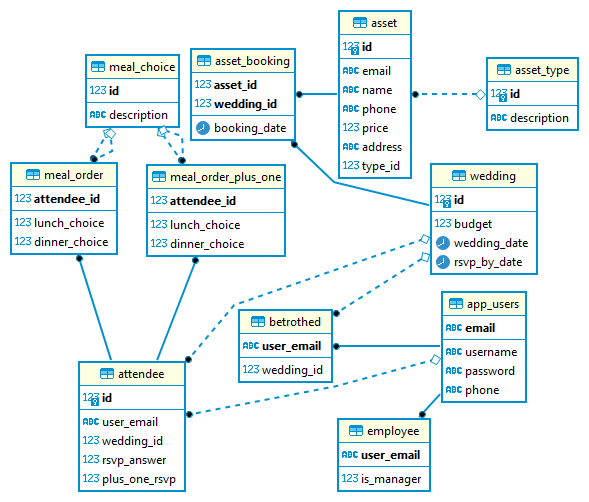
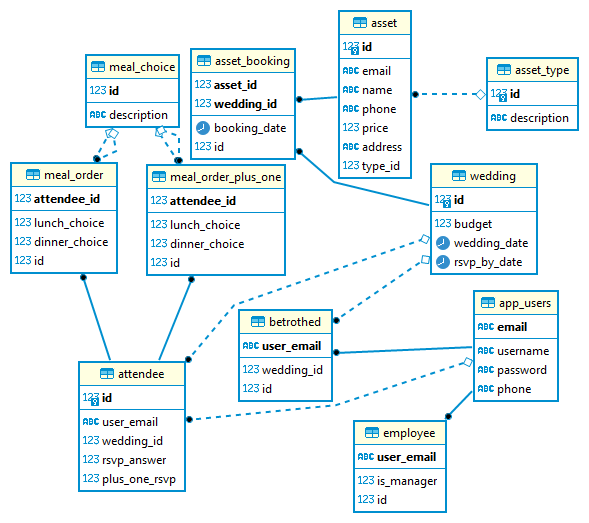
started testing DAOs, changed all add functions of DAOs to return the object they just peristed if they succeed in persisting the object

Changed region(s): [[0.0, 0.0, 0.9474, 0.9861], [0.7029, 0.0896, 0.9779, 0.2689], [0.6418, 0.5378, 0.6723, 0.5677]]

diff --git a/WeddingMart/src/main/java/DAOTestDriver.java b/WeddingMart/src/main/java/DAOTestDriver.java
@@ -1,0 +1,70 @@
+import com.revature.weddingmart.daos.AssetBookingDAO;
+import com.revature.weddingmart.daos.AssetDAO;
+import com.revature.weddingmart.daos.AssetTypeDAO;
+import com.revature.weddingmart.daos.MealChoiceDAO;
+import com.revature.weddingmart.daos.MealOrderDAO;
+import com.revature.weddingmart.daos.MealOrderPlusOneDAO;
+import com.revature.weddingmart.daos.WeddingDAO;
+import com.revature.weddingmart.daos.users.AttendeeDAO;
+import com.revature.weddingmart.daos.users.BetrothedDAO;
+import com.revature.weddingmart.daos.users.EmployeeDAO;
+import com.revature.weddingmart.daos.users.UserDAO;
+import com.revature.weddingmart.models.Asset;
+import com.revature.weddingmart.models.AssetBooking;
+import com.revature.weddingmart.models.AssetType;
+import com.revature.weddingmart.models.MealChoice;
+import com.revature.weddingmart.models.MealOrder;
+import com.revature.weddingmart.models.MealOrderPlusOne;
+import com.revature.weddingmart.models.Wedding;
+import com.revature.weddingmart.models.users.Attendee;
+import com.revature.weddingmart.models.users.Betrothed;
+import com.revature.weddingmart.models.users.Employee;
+import com.revature.weddingmart.models.users.User;
+
+public class DAOTestDriver {
+
+	public static void main(String[] args) {
+		AssetTypeDAO assetTypeDAO = new AssetTypeDAO();
+		AssetType assetType = new AssetType();
+		assetType = assetTypeDAO.getById(1);
+		
+		AssetDAO assetDAO = new AssetDAO();
+		Asset asset = new Asset();
+		asset.setAddress("address");
+		asset.setEmail("email");
+		asset.setName("name");
+		asset.setPhone("phone");
+		asset.setPrice(9001.99);
+		asset.setType(assetType);
+		asset = assetDAO.addAsset(asset);
+		
+		UserDAO userDAO = new UserDAO();
+		User user = new User();
+		
+		EmployeeDAO employeeDAO = new EmployeeDAO();
+		Employee employee = new Employee();
+		
+		WeddingDAO weddingDAO = new WeddingDAO();
+		Wedding wedding = new Wedding();
+		
+		BetrothedDAO betrothedDAO = new BetrothedDAO();
+		Betrothed betrothed = new Betrothed();
+		
+		AssetBookingDAO assetBookingDAO = new AssetBookingDAO();
+		AssetBooking assetBooking = new AssetBooking();
+		
+		AttendeeDAO attendeeDAO = new AttendeeDAO();
+		Attendee attendee = new Attendee();
+		
+		MealChoiceDAO mealChoiceDAO = new MealChoiceDAO();
+		MealChoice mealChoice = new MealChoice();
+		
+		MealOrderDAO mealOrderDAO = new MealOrderDAO();
+		MealOrder mealOrder = new MealOrder();
+		
+		MealOrderPlusOneDAO mealOrderPlusOneDAO = new MealOrderPlusOneDAO();
+		MealOrderPlusOne mealOrderPlusOne = new MealOrderPlusOne();
+		
+	}
+
+}

diff --git a/WeddingMart/src/main/java/com/revature/weddingmart/models/users/Betrothed.java b/WeddingMart/src/main/java/com/revature/weddingmart/models/users/Betrothed.java
@@ -3,6 +3,8 @@ package com.revature.weddingmart.models.users;
 import java.util.Objects;
 
 import javax.persistence.Entity;
+import javax.persistence.GeneratedValue;
+import javax.persistence.Id;
 import javax.persistence.JoinColumn;
 import javax.persistence.ManyToOne;
 import javax.persistence.Table;
@@ -10,13 +12,16 @@ import javax.persistence.Table;
 import com.revature.weddingmart.models.Wedding;
 
 @Entity
-@Table(name="betrothed")
+@Table(name = "betrothed")
 public class Betrothed {
-	@ManyToOne(optional=false)
-    @JoinColumn(name="user_email", unique=false, nullable=false, updatable=false)
+	@Id
+	@GeneratedValue
+	private long id;
+	@ManyToOne(optional = false)
+	@JoinColumn(name = "user_email", unique = false, nullable = false, updatable = false)
 	private User user;
-	@ManyToOne(optional=false)
-    @JoinColumn(name="wedding_id", unique=false, nullable=false, updatable=false)
+	@ManyToOne(optional = false)
+	@JoinColumn(name = "wedding_id", unique = false, nullable = false, updatable = false)
 	private Wedding wedding;
 
 	public User getUser() {

diff --git a/WeddingMart/src/main/java/com/revature/weddingmart/models/users/Employee.java b/WeddingMart/src/main/java/com/revature/weddingmart/models/users/Employee.java
@@ -4,6 +4,8 @@ import java.util.Objects;
 
 import javax.persistence.Column;
 import javax.persistence.Entity;
+import javax.persistence.GeneratedValue;
+import javax.persistence.Id;
 import javax.persistence.JoinColumn;
 import javax.persistence.OneToOne;
 import javax.persistence.Table;
@@ -11,8 +13,11 @@ import javax.persistence.Table;
 @Entity
 @Table(name="employee")
 public class Employee {
+	@Id
+	@GeneratedValue
+	private long id;
 	@OneToOne(optional=false)
-    @JoinColumn(name="type_id", unique=false, nullable=false, updatable=true)
+    @JoinColumn(name="user_email", unique=false, nullable=false, updatable=true)
 	private User user;
 	@Column(name = "is_manager")
 	private boolean isManager;

diff --git a/WeddingMart/src/main/java/com/revature/weddingmart/models/MealOrderPlusOne.java b/WeddingMart/src/main/java/com/revature/weddingmart/models/MealOrderPlusOne.java
@@ -3,6 +3,8 @@ package com.revature.weddingmart.models;
 import java.util.Objects;
 
 import javax.persistence.Entity;
+import javax.persistence.GeneratedValue;
+import javax.persistence.Id;
 import javax.persistence.JoinColumn;
 import javax.persistence.ManyToOne;
 import javax.persistence.OneToOne;
@@ -13,6 +15,9 @@ import com.revature.weddingmart.models.users.Attendee;
 @Entity
 @Table(name="meal_order_plus_one")
 public class MealOrderPlusOne {
+	@Id
+	@GeneratedValue
+	private long id;
 	@OneToOne(optional=false)
     @JoinColumn(name="attendee_id", unique=false, nullable=false, updatable=true)
 	private Attendee attendee;

diff --git a/WeddingMart/src/main/java/com/revature/weddingmart/daos/MealOrderPlusOneDAO.java b/WeddingMart/src/main/java/com/revature/weddingmart/daos/MealOrderPlusOneDAO.java
@@ -11,14 +11,14 @@ import com.revature.weddingmart.models.MealOrderPlusOne;
 import com.revature.weddingmart.util.HibernateUtil;
 
 public class MealOrderPlusOneDAO {
-	public boolean addMealOrderPlusOne(MealOrderPlusOne mealOrderPlusOne) {
+	public MealOrderPlusOne addMealOrderPlusOne(MealOrderPlusOne mealOrderPlusOne) {
 		try {
 			Session session = HibernateUtil.getSession();
 			session.save(mealOrderPlusOne);
-			return true;
+			return mealOrderPlusOne;
 		} catch (HibernateException | IOException e) {
 			e.printStackTrace();
-			return false;
+			return null;
 		} finally {
 			HibernateUtil.closeSession();
 		}

diff --git a/WeddingMart/src/main/java/com/revature/weddingmart/models/MealOrder.java b/WeddingMart/src/main/java/com/revature/weddingmart/models/MealOrder.java
@@ -3,6 +3,8 @@ package com.revature.weddingmart.models;
 import java.util.Objects;
 
 import javax.persistence.Entity;
+import javax.persistence.GeneratedValue;
+import javax.persistence.Id;
 import javax.persistence.JoinColumn;
 import javax.persistence.ManyToOne;
 import javax.persistence.OneToOne;
@@ -13,6 +15,9 @@ import com.revature.weddingmart.models.users.Attendee;
 @Entity
 @Table(name="meal_order")
 public class MealOrder {
+	@Id
+	@GeneratedValue
+	private long id;
 	@OneToOne(optional=false)
     @JoinColumn(name="attendee_id", unique=false, nullable=false, updatable=true)
 	private Attendee attendee;

diff --git a/WeddingMart/src/main/java/com/revature/weddingmart/models/AssetBooking.java b/WeddingMart/src/main/java/com/revature/weddingmart/models/AssetBooking.java
@@ -5,6 +5,8 @@ import java.util.Objects;
 
 import javax.persistence.Column;
 import javax.persistence.Entity;
+import javax.persistence.GeneratedValue;
+import javax.persistence.Id;
 import javax.persistence.JoinColumn;
 import javax.persistence.ManyToOne;
 import javax.persistence.Table;
@@ -12,6 +14,9 @@ import javax.persistence.Table;
 @Entity
 @Table(name = "asset_booking")
 public class AssetBooking {
+	@Id
+	@GeneratedValue
+	private long id;
 	@ManyToOne(optional = false)
 	@JoinColumn(name = "asset_id", unique = false, nullable = false, updatable = false)
 	private Asset asset;

diff --git a/WeddingMart/src/main/java/com/revature/weddingmart/daos/AssetBookingDAO.java b/WeddingMart/src/main/java/com/revature/weddingmart/daos/AssetBookingDAO.java
@@ -11,14 +11,14 @@ import com.revature.weddingmart.models.AssetBooking;
 import com.revature.weddingmart.util.HibernateUtil;
 
 public class AssetBookingDAO {
-	public boolean addAssetBooking(AssetBooking assetBooking) {
+	public AssetBooking addAssetBooking(AssetBooking assetBooking) {
 		try {
 			Session session = HibernateUtil.getSession();
 			session.save(assetBooking);
-			return true;
+			return assetBooking;
 		} catch (HibernateException | IOException e) {
 			e.printStackTrace();
-			return false;
+			return null;
 		} finally {
 			HibernateUtil.closeSession();
 		}

diff --git a/WeddingMart/src/main/java/com/revature/weddingmart/daos/MealChoiceDAO.java b/WeddingMart/src/main/java/com/revature/weddingmart/daos/MealChoiceDAO.java
@@ -11,14 +11,14 @@ import com.revature.weddingmart.models.MealChoice;
 import com.revature.weddingmart.util.HibernateUtil;
 
 public class MealChoiceDAO {
-	public boolean addMealChoice(MealChoice mealChoice) {
+	public MealChoice addMealChoice(MealChoice mealChoice) {
 		try {
 			Session session = HibernateUtil.getSession();
 			session.save(mealChoice);
-			return true;
+			return mealChoice;
 		} catch (HibernateException | IOException e) {
 			e.printStackTrace();
-			return false;
+			return null;
 		} finally {
 			HibernateUtil.closeSession();
 		}

diff --git a/WeddingMart/src/main/java/com/revature/weddingmart/daos/users/BetrothedDAO.java b/WeddingMart/src/main/java/com/revature/weddingmart/daos/users/BetrothedDAO.java
@@ -11,14 +11,14 @@ import com.revature.weddingmart.models.users.Betrothed;
 import com.revature.weddingmart.util.HibernateUtil;
 
 public class BetrothedDAO {
-	public boolean addBetrothed(Betrothed betrothed) {
+	public Betrothed addBetrothed(Betrothed betrothed) {
 		try {
 			Session session = HibernateUtil.getSession();
 			session.save(betrothed);
-			return true;
+			return betrothed;
 		} catch (HibernateException | IOException e) {
 			e.printStackTrace();
-			return false;
+			return null;
 		} finally {
 			HibernateUtil.closeSession();
 		}

diff --git a/WeddingMart/src/main/java/com/revature/weddingmart/daos/MealOrderDAO.java b/WeddingMart/src/main/java/com/revature/weddingmart/daos/MealOrderDAO.java
@@ -11,14 +11,14 @@ import com.revature.weddingmart.models.MealOrder;
 import com.revature.weddingmart.util.HibernateUtil;
 
 public class MealOrderDAO {
-	public boolean addMealOrder(MealOrder mealOrder) {
+	public MealOrder addMealOrder(MealOrder mealOrder) {
 		try {
 			Session session = HibernateUtil.getSession();
 			session.save(mealOrder);
-			return true;
+			return mealOrder;
 		} catch (HibernateException | IOException e) {
 			e.printStackTrace();
-			return false;
+			return null;
 		} finally {
 			HibernateUtil.closeSession();
 		}

diff --git a/WeddingMart/src/main/java/com/revature/weddingmart/daos/users/AttendeeDAO.java b/WeddingMart/src/main/java/com/revature/weddingmart/daos/users/AttendeeDAO.java
@@ -11,14 +11,14 @@ import com.revature.weddingmart.models.users.Attendee;
 import com.revature.weddingmart.util.HibernateUtil;
 
 public class AttendeeDAO {
-	public boolean addAttendee(Attendee attendee) {
+	public Attendee addAttendee(Attendee attendee) {
 		try {
 			Session session = HibernateUtil.getSession();
 			session.save(attendee);
-			return true;
+			return attendee;
 		} catch (HibernateException | IOException e) {
 			e.printStackTrace();
-			return false;
+			return null;
 		} finally {
 			HibernateUtil.closeSession();
 		}
